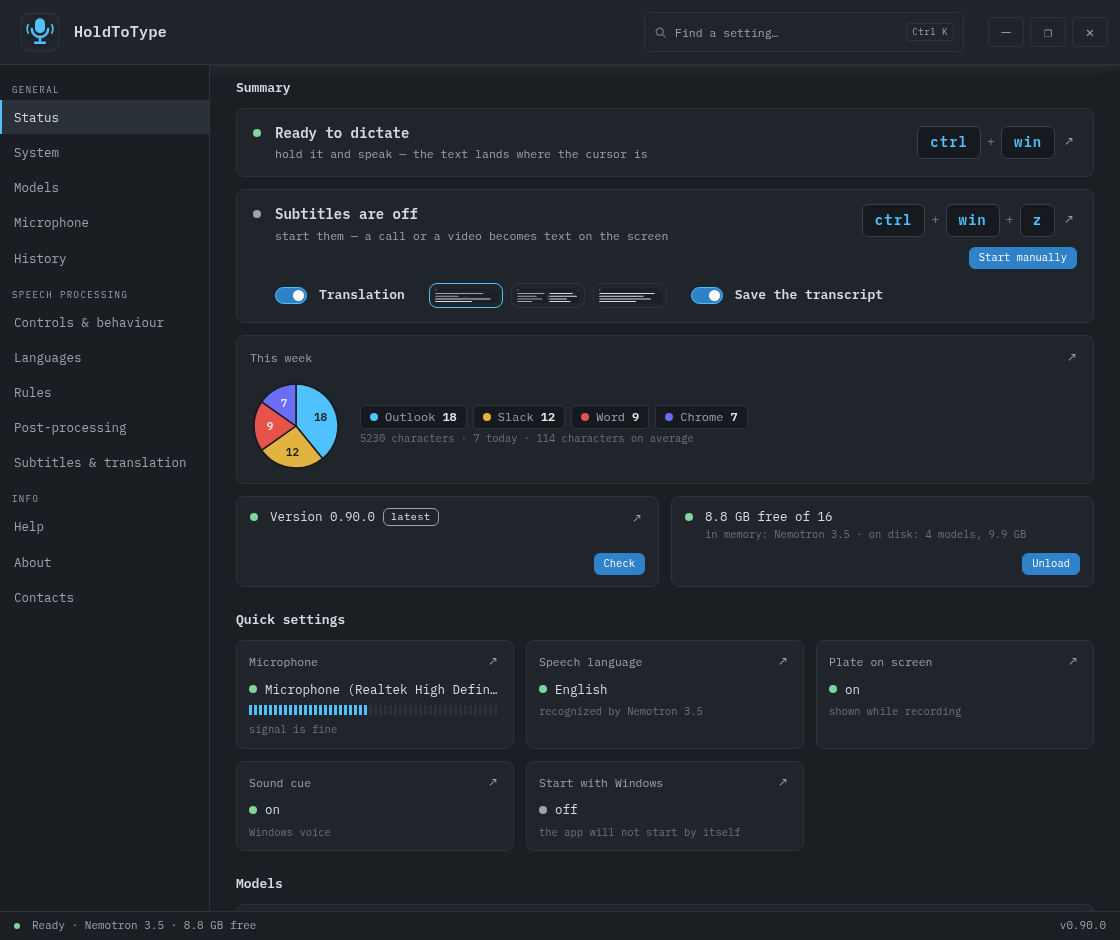
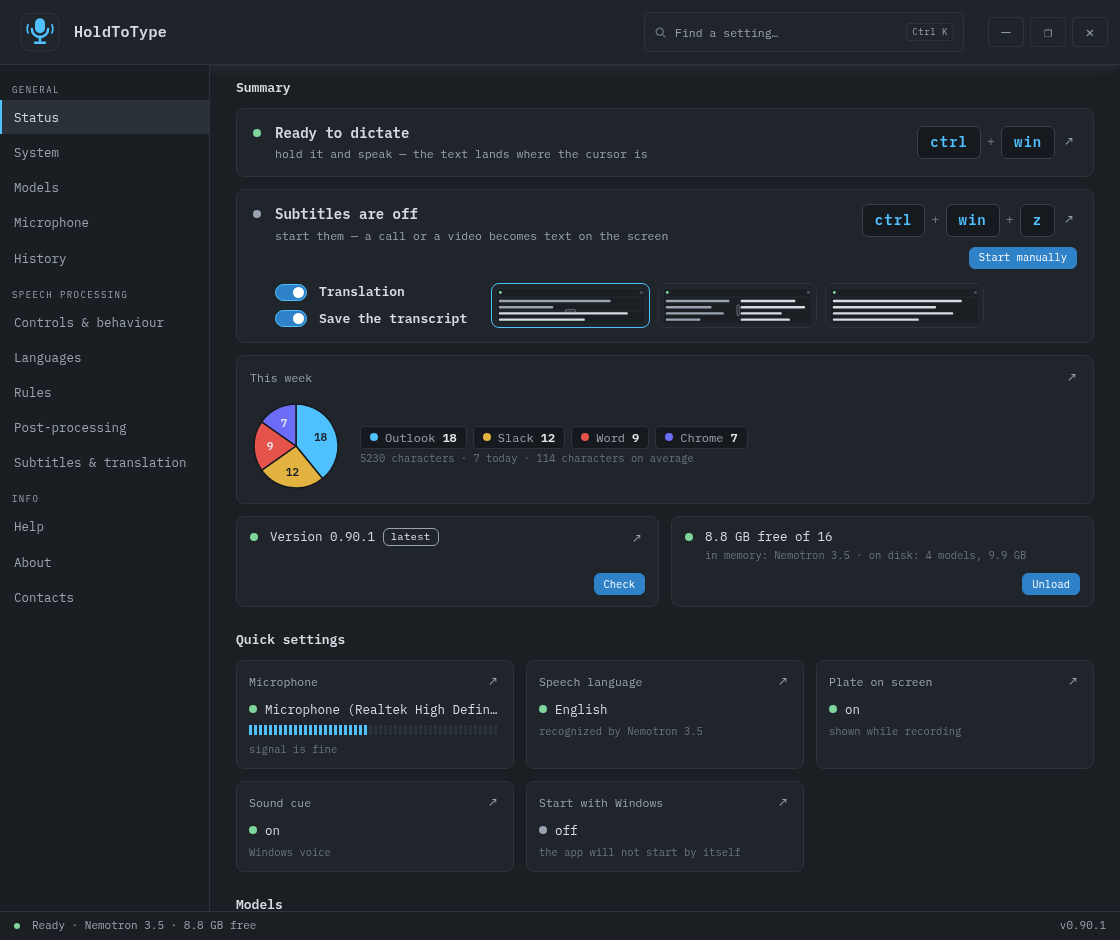
the subtitles card on status stacks its two switches on the left and lets the layout cards grow up to their height on the right, while the terminal design keeps the old row

diff --git a/test/ui.test.js b/test/ui.test.js
@@ -2030,7 +2030,33 @@ function check(name, actual, expected) {
   stTr.click(); await sleep(450);
   check("status: translation off here is off on the tab, saved, and the small cards are dimmed and disabled", [stTr.checked, trOn.checked, w.lastSaveForm.subtitles_translate_on, stLays.classList.contains("off"), stCards().every((c) => c.querySelector("input").disabled)], [false, false, false, true, true]);
   const stSave = sv("st_save_on");
-  check("status: the save switch comes after the small cards, looks like the translation switch and shows the setting", [[...d.querySelectorAll("#subs_hero .stsubsw > *")].map((e) => e.id || e.querySelector("input").id), stSave.closest("label").className, stSave.type, stSave.checked, sv("subtitles_save").checked], [["st_tr_on", "st_lays", "st_save_on"], "stsw", "checkbox", true, true]);
+  check("status: the two switches stand in a column, translation over saving, and the small cards come after the column", [[...d.querySelectorAll("#subs_hero .stsubsw > *")].map((e) => e.id || e.className), [...d.querySelectorAll("#subs_hero .stsubsw > .stswcol > *")].map((e) => e.className + ":" + e.querySelector("input").id)], [["stswcol", "st_lays"], ["stsw:st_tr_on", "stsw:st_save_on"]]);
+  check("status: the keyboard goes translation, saving, then the small cards", [...d.querySelectorAll("#subs_hero .stsubsw input")].map((i) => i.id || i.name + ":" + i.value), ["st_tr_on", "st_save_on", "st_layout:rows", "st_layout:columns", "st_layout:only"]);
+  check("status: the save switch looks like the translation switch and shows the setting", [stSave.closest("label").className, stSave.type, stSave.checked, sv("subtitles_save").checked], ["stsw", "checkbox", true, true]);
+  check("status: outside the terminal design the cards grow up to the height of the switch column and shrink when the width runs out", [
+    css.includes("#subs_hero .stswcol{display:flex;flex-direction:column;align-items:flex-start;gap:8px;flex:none}"),
+    css.includes('html:not([data-skin="terminal"]) #subs_hero>.stsubsw{flex-wrap:nowrap}'),
+    css.includes('html:not([data-skin="terminal"]) #subs_hero .stsubsw>.stlays{flex:0 1 auto;min-width:0}'),
+    css.includes('html:not([data-skin="terminal"]) #subs_hero .stlay{flex:0 1 var(--cardw,74px);min-width:0}'),
+    css.includes('html:not([data-skin="terminal"]) #subs_hero .stlay svg{width:100%}')], [true, true, true, true, true]);
+  check("status: the terminal design keeps the old order: translation, the small cards, saving", [
+    css.includes('html[data-skin="terminal"] #subs_hero .stswcol{display:contents}'),
+    css.includes('html[data-skin="terminal"] #subs_hero .stsubsw>.stlays{order:1}'),
+    css.includes('html[data-skin="terminal"] #subs_hero .stswcol>.stsw+.stsw{order:2}')], [true, true, true]);
+  const stColumn = d.querySelector("#subs_hero .stswcol");
+  const realRect = stColumn.getBoundingClientRect;
+  stLays.style.removeProperty("--cardw");
+  stColumn.getBoundingClientRect = () => ({ top: 0, left: 0, right: 200, bottom: 0, width: 200, height: 0 });
+  w.fitStateLays();
+  const hiddenWidth = stLays.style.getPropertyValue("--cardw");
+  stColumn.getBoundingClientRect = () => ({ top: 0, left: 0, right: 200, bottom: 46, width: 200, height: 46 });
+  w.fitStateLays();
+  const cardW = stLays.style.getPropertyValue("--cardw");
+  stColumn.getBoundingClientRect = realRect;
+  const cardCs = w.getComputedStyle(stCards()[0]);
+  const cssPx = (k) => parseFloat(cardCs[k]) || 0;
+  const wantW = Math.round((46 - cssPx("paddingTop") - cssPx("paddingBottom") - cssPx("borderTopWidth") - cssPx("borderBottomWidth")) * 251 / 60 + cssPx("paddingLeft") + cssPx("paddingRight") + cssPx("borderLeftWidth") + cssPx("borderRightWidth"));
+  check("status: the card width follows the height of the switch column by the proportions of the drawing and stays unset while the column is hidden", [hiddenWidth, cardW, cssPx("paddingTop")], ["", wantW + "px", 4]);
   check("status: the save switch stays awake while translation is off", [stSave.disabled, stSave.closest(".stsw").classList.contains("dimmed")], [false, false]);
   const savesSv = w.saveCalls;
   stSave.click(); await sleep(450);

diff --git a/client/i18n_extra.go b/client/i18n_extra.go
@@ -1148,7 +1148,7 @@ func init() {
 			"<p>Die obere Karte gibt es in drei Varianten. <b>Grün</b>: Alles ist in Ordnung, daneben steht eine Erinnerung an die Tasten. <b>Gelb</b>: Sie haben die App über das Symbol im Infobereich neben der Uhr ausgeschaltet, und die Tasten tun nichts, bis Sie direkt auf der Karte „Einschalten“ drücken. <b>Rot</b>: Die Einstellungen widersprechen sich. Die Erkennung auf einem anderen Rechner ist gewählt, aber keine Adresse angegeben. Auf der roten Karte führt die Schaltfläche „Servereinstellungen öffnen“ zur Serverwahl auf der Registerkarte „System“.</p>" +
 			"<p>Darunter steht, worauf man meist nur kurz schaut:</p>" +
 			"<ul>" +
-			"<li><b>Untertitel.</b> Die Karte direkt unter der obersten: ob die Untertitel aus sind, ihr Modell laden, laufen oder neu starten, mit dem Modell und wie der Text kommt, ihr Tastenkürzel, wenn eines gesetzt ist, eine Schaltfläche, die sie startet oder beendet, und ein Pfeil zur Registerkarte „Untertitel & Übersetzung“. Darunter stehen der Schalter „Übersetzung“ und drei kleine Karten der Anordnung, dieselben wie auf der Registerkarte „Untertitel & Übersetzung“: in zwei Zeilen, in zwei Spalten oder nur Übersetzung. Danach folgt der Schalter „Mitschrift speichern“, derselbe wie auf der Registerkarte „Untertitel & Übersetzung“: Solange er an ist, werden das Gehörte und die Übersetzung in Textdateien geschrieben. Er wirkt sofort, auch während die Untertitel laufen. Die Schaltfläche „Manuell starten“ startet die Untertitel direkt hier; haben sie kein eigenes Kürzel, steht an seiner Stelle die Schaltfläche „Zuweisen…“, die eines festlegt.</li>" +
+			"<li><b>Untertitel.</b> Die Karte direkt unter der obersten: ob die Untertitel aus sind, ihr Modell laden, laufen oder neu starten, mit dem Modell und wie der Text kommt, ihr Tastenkürzel, wenn eines gesetzt ist, eine Schaltfläche, die sie startet oder beendet, und ein Pfeil zur Registerkarte „Untertitel & Übersetzung“. Darunter stehen die Schalter „Übersetzung“ und „Mitschrift speichern“ und drei kleine Karten der Anordnung, dieselben wie auf der Registerkarte „Untertitel & Übersetzung“: in zwei Zeilen, in zwei Spalten oder nur Übersetzung. Solange der Schalter „Mitschrift speichern“ an ist, werden das Gehörte und die Übersetzung in Textdateien geschrieben. Er wirkt sofort, auch während die Untertitel laufen. Die Schaltfläche „Manuell starten“ startet die Untertitel direkt hier; haben sie kein eigenes Kürzel, steht an seiner Stelle die Schaltfläche „Zuweisen…“, die eines festlegt.</li>" +
 			"<li><b>Diese Woche.</b> Ein Kreisdiagramm: in welche Programme Ihre Diktate gingen und wie viele Zeichen Sie diktiert haben.</li>" +
 			"<li><b>Version.</b> Die Versionsnummer und die Schaltfläche „Prüfen“, die nachfragt, ob eine neuere Version erschienen ist. Wenn ja, sagt die App es gleich hier.</li>" +
 			"<li><b>Speicher.</b> Wie viel davon frei ist, welches Modell gerade darin sitzt und wie viel alle Modelle auf der Festplatte belegen. Die Schaltfläche „Entladen“ gibt den Speicher sofort frei, etwa vor einem anspruchsvollen Spiel. Das nächste Diktat nach dem Entladen geht nicht verloren: die Aufnahme beginnt sofort, das Modell lädt währenddessen, und der Text erscheint ein paar Sekunden später.</li>" +
@@ -1950,7 +1950,7 @@ func init() {
 			"<p>La carte du haut existe en trois versions. <b>Verte</b> : tout va bien, avec un rappel des touches à côté. <b>Jaune</b> : vous avez désactivé l'application depuis son icône dans la zone de notification, près de l'horloge, et les touches ne font rien tant que vous n'appuyez pas sur « Activer », directement sur la carte. <b>Rouge</b> : les réglages se contredisent. La reconnaissance sur un autre ordinateur est choisie, mais aucune adresse n'est indiquée. Sur la carte rouge, le bouton « Ouvrir les réglages du serveur » mène au choix du serveur dans l’onglet « Système ».</p>" +
 			"<p>En dessous se trouve ce qu'on regarde d'habitude en passant :</p>" +
 			"<ul>" +
-			"<li><b>Sous-titres.</b> La carte juste sous celle du haut : si les sous-titres sont arrêtés, chargent leur modèle, tournent ou redémarrent, avec le modèle et la façon dont arrive le texte, leur raccourci s'il y en a un, un bouton qui les démarre ou les arrête, et une flèche vers l'onglet « Sous-titres, traduction ». En dessous, l'interrupteur « Traduction » et trois petites cartes de disposition, les mêmes que dans l'onglet « Sous-titres, traduction » : sur deux lignes, sur deux colonnes ou traduction seule. Vient ensuite l'interrupteur « Enregistrer la transcription », le même que dans l'onglet « Sous-titres, traduction » : tant qu'il est activé, ce qui est entendu et sa traduction sont écrits dans des fichiers texte. Il agit tout de suite, même pendant que les sous-titres tournent. Le bouton « Démarrer manuellement » lance les sous-titres d’ici même ; s’ils n’ont pas de raccourci, le bouton « Attribuer… » est à sa place et en définit un.</li>" +
+			"<li><b>Sous-titres.</b> La carte juste sous celle du haut : si les sous-titres sont arrêtés, chargent leur modèle, tournent ou redémarrent, avec le modèle et la façon dont arrive le texte, leur raccourci s'il y en a un, un bouton qui les démarre ou les arrête, et une flèche vers l'onglet « Sous-titres, traduction ». En dessous, les interrupteurs « Traduction » et « Enregistrer la transcription » et trois petites cartes de disposition, les mêmes que dans l'onglet « Sous-titres, traduction » : sur deux lignes, sur deux colonnes ou traduction seule. Tant que l'interrupteur « Enregistrer la transcription » est activé, ce qui est entendu et sa traduction sont écrits dans des fichiers texte. Il agit tout de suite, même pendant que les sous-titres tournent. Le bouton « Démarrer manuellement » lance les sous-titres d’ici même ; s’ils n’ont pas de raccourci, le bouton « Attribuer… » est à sa place et en définit un.</li>" +
 			"<li><b>Cette semaine.</b> Un graphique circulaire : vers quels programmes sont allées vos dictées et combien de caractères vous avez dictés.</li>" +
 			"<li><b>Version.</b> Le numéro de version et le bouton « Vérifier », qui demande si une version plus récente est sortie. Si c’est le cas, l’application le dit ici même.</li>" +
 			"<li><b>Mémoire.</b> Combien il en reste de libre, quel modèle s'y trouve en ce moment et combien de place tous les modèles prennent sur le disque. Le bouton « Décharger » libère la mémoire immédiatement, par exemple avant un jeu gourmand. La dictée suivante n'est pas perdue : l'enregistrement commence aussitôt, le modèle se charge pendant ce temps, et le texte arrive quelques secondes plus tard.</li>" +
@@ -2752,7 +2752,7 @@ func init() {
 			"<p>La tarjeta de arriba puede ser de tres tipos. <b>Verde</b>: todo va bien, con un recordatorio de las teclas al lado. <b>Amarilla</b>: desactivaste la aplicación desde su icono en la bandeja, junto al reloj, y las teclas no hacen nada hasta que pulses «Activar» ahí mismo, en la tarjeta. <b>Roja</b>: los ajustes se contradicen. Está elegido el reconocimiento en otro ordenador, pero no se ha indicado ninguna dirección. En la tarjeta roja, el botón «Abrir los ajustes del servidor» lleva a la elección del servidor en la pestaña «Sistema».</p>" +
 			"<p>Debajo está lo que normalmente se mira de pasada:</p>" +
 			"<ul>" +
-			"<li><b>Subtítulos.</b> La tarjeta justo debajo de la primera: si los subtítulos están apagados, cargando su modelo, en marcha o reiniciándose, con el modelo y cómo llega el texto, su atajo si hay uno, un botón que los inicia o los detiene y una flecha a la pestaña «Subtítulos y traducción». Debajo están el interruptor «Traducción» y tres pequeñas tarjetas de disposición, las mismas que en la pestaña «Subtítulos y traducción»: en dos filas, en dos columnas o solo traducción. Después viene el interruptor «Guardar la transcripción», el mismo que en la pestaña «Subtítulos y traducción»: mientras está activado, lo que se oye y su traducción se escriben en archivos de texto. Actúa al momento, incluso con los subtítulos en marcha. El botón «Iniciar manualmente» inicia los subtítulos desde aquí mismo; si no tienen atajo propio, en su lugar está el botón «Asignar…», que lo asigna.</li>" +
+			"<li><b>Subtítulos.</b> La tarjeta justo debajo de la primera: si los subtítulos están apagados, cargando su modelo, en marcha o reiniciándose, con el modelo y cómo llega el texto, su atajo si hay uno, un botón que los inicia o los detiene y una flecha a la pestaña «Subtítulos y traducción». Debajo están los interruptores «Traducción» y «Guardar la transcripción» y tres pequeñas tarjetas de disposición, los mismos que en la pestaña «Subtítulos y traducción»: en dos filas, en dos columnas o solo traducción. Mientras el interruptor «Guardar la transcripción» está activado, lo que se oye y su traducción se escriben en archivos de texto. Actúa al momento, incluso con los subtítulos en marcha. El botón «Iniciar manualmente» inicia los subtítulos desde aquí mismo; si no tienen atajo propio, en su lugar está el botón «Asignar…», que lo asigna.</li>" +
 			"<li><b>Esta semana.</b> Un gráfico circular: a qué programas fueron tus dictados y cuántos caracteres dictaste.</li>" +
 			"<li><b>Versión.</b> El número de versión y el botón «Comprobar», que pregunta si ha salido una versión más nueva. Si es así, la app lo dice aquí mismo.</li>" +
 			"<li><b>Memoria.</b> Cuánta queda libre, qué modelo está cargado en ella ahora y cuánto ocupan todos los modelos en el disco. El botón «Liberar» vacía la memoria al momento, por ejemplo antes de un juego exigente. El siguiente dictado no se pierde: la grabación empieza al momento, el modelo se carga mientras tanto y el texto aparece unos segundos más tarde.</li>" +
@@ -3554,7 +3554,7 @@ func init() {
 			"<p>Il riquadro in alto può essere di tre tipi. <b>Verde</b>: va tutto bene, e accanto c'è un promemoria dei tasti. <b>Giallo</b>: hai spento l'app dalla sua icona nell'area di notifica, vicino all'orologio, e i tasti non fanno nulla finché non premi «Accendi» lì stesso, nel riquadro. <b>Rosso</b>: le impostazioni si contraddicono. È scelto il riconoscimento su un altro computer, ma l'indirizzo non è indicato. Sulla scheda rossa il pulsante «Apri le impostazioni del server» porta alla scelta del server nella scheda «Sistema».</p>" +
 			"<p>Più sotto c'è quello che di solito si guarda di sfuggita:</p>" +
 			"<ul>" +
-			"<li><b>Sottotitoli.</b> Il riquadro subito sotto quello in alto: se i sottotitoli sono spenti, stanno caricando il modello, sono attivi o si stanno riavviando, con il modello e come arriva il testo, la loro scorciatoia se è impostata, un pulsante che li avvia o li ferma e una freccia verso la scheda «Sottotitoli e traduzione». Sotto ci sono l'interruttore «Traduzione» e tre piccole schede di disposizione, le stesse della scheda «Sottotitoli e traduzione»: su due righe, su due colonne o solo traduzione. Dopo c'è l'interruttore «Salva la trascrizione», lo stesso della scheda «Sottotitoli e traduzione»: finché è attivo, ciò che si sente e la sua traduzione vengono scritti in file di testo. Ha effetto subito, anche mentre i sottotitoli sono attivi. Il pulsante «Avvia manualmente» avvia i sottotitoli da qui; se non hanno una scorciatoia propria, al suo posto c’è il pulsante «Assegna…», che ne assegna una.</li>" +
+			"<li><b>Sottotitoli.</b> Il riquadro subito sotto quello in alto: se i sottotitoli sono spenti, stanno caricando il modello, sono attivi o si stanno riavviando, con il modello e come arriva il testo, la loro scorciatoia se è impostata, un pulsante che li avvia o li ferma e una freccia verso la scheda «Sottotitoli e traduzione». Sotto ci sono gli interruttori «Traduzione» e «Salva la trascrizione» e tre piccole schede di disposizione, gli stessi della scheda «Sottotitoli e traduzione»: su due righe, su due colonne o solo traduzione. Finché l'interruttore «Salva la trascrizione» è attivo, ciò che si sente e la sua traduzione vengono scritti in file di testo. Ha effetto subito, anche mentre i sottotitoli sono attivi. Il pulsante «Avvia manualmente» avvia i sottotitoli da qui; se non hanno una scorciatoia propria, al suo posto c’è il pulsante «Assegna…», che ne assegna una.</li>" +
 			"<li><b>Questa settimana.</b> Un grafico a torta: in quali programmi sono finite le tue dettature e quanti caratteri hai dettato.</li>" +
 			"<li><b>Versione.</b> Il numero di versione e il pulsante «Controlla», che chiede se è uscita una versione più recente. Se sì, l’app lo dice proprio qui.</li>" +
 			"<li><b>Memoria.</b> Quanta ne resta libera, quale modello c'è dentro adesso e quanto pesano tutti i modelli su disco. Il pulsante «Libera» svuota la memoria subito, per esempio prima di un gioco pesante. La dettatura successiva non va persa: la registrazione parte subito, il modello si carica nel frattempo e il testo arriva qualche secondo dopo.</li>" +
@@ -4356,7 +4356,7 @@ func init() {
 			"<p>Górna karta bywa trzech rodzajów. <b>Zielona</b>: wszystko w porządku, obok przypomnienie o klawiszach. <b>Żółta</b>: aplikację wyłączono przez ikonę w zasobniku obok zegara i klawisze nie działają, dopóki nie naciśniesz „Włącz” bezpośrednio na tej karcie. <b>Czerwona</b>: ustawienia sobie przeczą. Wybrano rozpoznawanie na innym komputerze, ale nie podano adresu. Na czerwonej karcie przycisk „Otwórz ustawienia serwera” prowadzi do wyboru serwera na karcie „System”.</p>" +
 			"<p>Niżej jest to, na co zwykle tylko się zerka:</p>" +
 			"<ul>" +
-			"<li><b>Napisy.</b> Karta tuż pod górną: czy napisy są wyłączone, wczytują model, działają czy uruchamiają się ponownie, z modelem i tym, jak przychodzi tekst, ich skrót, jeśli jest ustawiony, przycisk, który je włącza lub wyłącza, i strzałka do zakładki „Napisy i tłumaczenie”. Pod spodem są przełącznik „Tłumaczenie” i trzy małe karty układu, te same co w zakładce „Napisy i tłumaczenie”: w dwóch wierszach, w dwóch kolumnach albo tylko tłumaczenie. Dalej jest przełącznik „Zapisuj transkrypcję”, ten sam co w zakładce „Napisy i tłumaczenie”: dopóki jest włączony, to, co słychać, i tłumaczenie trafiają do plików tekstowych. Działa od razu, także w trakcie działania napisów. Przycisk „Włącz ręcznie” uruchamia napisy prosto stąd; jeśli nie mają własnego skrótu, na jego miejscu jest przycisk „Przypisz…”, który go ustawia.</li>" +
+			"<li><b>Napisy.</b> Karta tuż pod górną: czy napisy są wyłączone, wczytują model, działają czy uruchamiają się ponownie, z modelem i tym, jak przychodzi tekst, ich skrót, jeśli jest ustawiony, przycisk, który je włącza lub wyłącza, i strzałka do zakładki „Napisy i tłumaczenie”. Pod spodem są przełączniki „Tłumaczenie” i „Zapisuj transkrypcję” oraz trzy małe karty układu, te same co w zakładce „Napisy i tłumaczenie”: w dwóch wierszach, w dwóch kolumnach albo tylko tłumaczenie. Dopóki przełącznik „Zapisuj transkrypcję” jest włączony, to, co słychać, i tłumaczenie trafiają do plików tekstowych. Działa od razu, także w trakcie działania napisów. Przycisk „Włącz ręcznie” uruchamia napisy prosto stąd; jeśli nie mają własnego skrótu, na jego miejscu jest przycisk „Przypisz…”, który go ustawia.</li>" +
 			"<li><b>W tym tygodniu.</b> Wykres kołowy: do jakich programów trafiały twoje dyktowania i ile znaków podyktowano.</li>" +
 			"<li><b>Wersja.</b> Numer wersji i przycisk „Sprawdź”, który sprawdza, czy wyszła nowsza wersja. Jeśli tak, aplikacja powie o tym tutaj.</li>" +
 			"<li><b>Pamięć.</b> Ile jej jest wolnej, który model jest w niej teraz i ile wszystkie modele zajmują na dysku. Przycisk „Wyładuj” zwalnia pamięć od razu, na przykład przed wymagającą grą. Następne dyktowanie nie przepada: nagrywanie zaczyna się od razu, model w tym czasie się wczytuje, a tekst pojawia się kilka sekund później.</li>" +
@@ -5278,7 +5278,7 @@ func init() {
 			"<p>Верхня картка буває трьох видів. <b>Зелена</b>: усе гаразд, поруч нагадування про клавіші. <b>Жовта</b>: ви вимкнули застосунок через значок біля годинника, і клавіші не працюють, доки ви не натиснете «Увімкнути» тут же, на картці. <b>Червона</b>: налаштування суперечать одне одному. Вибрано розпізнавання на іншому комп'ютері, а адресу не вказано. На червоній картці кнопка «Відкрити налаштування сервера» веде до вибору сервера на вкладці «Система».</p>" +
 			"<p>Нижче те, на що зазвичай лише кидають оком:</p>" +
 			"<ul>" +
-			"<li><b>Субтитри.</b> Картка одразу під верхньою: чи вимкнені субтитри, завантажують модель, ідуть чи перезапускаються, з моделлю і тим, як приходить текст, їхнє сполучення клавіш, якщо його задано, кнопка, яка їх запускає або зупиняє, і стрілка на вкладку «Субтитри й переклад». Під нею — перемикач «Переклад» і три маленькі картки розташування, ті самі, що на вкладці «Субтитри й переклад»: у два рядки, у дві колонки або лише переклад. Далі — перемикач «Зберігати розшифровку», той самий, що на вкладці «Субтитри й переклад»: поки він увімкнений, почуте й переклад записуються в текстові файли. Він діє одразу, навіть коли субтитри вже йдуть. Кнопка «Запустити вручну» запускає субтитри просто звідси; якщо власного сполучення в них немає, на його місці кнопка «Призначити…», яка його задає.</li>" +
+			"<li><b>Субтитри.</b> Картка одразу під верхньою: чи вимкнені субтитри, завантажують модель, ідуть чи перезапускаються, з моделлю і тим, як приходить текст, їхнє сполучення клавіш, якщо його задано, кнопка, яка їх запускає або зупиняє, і стрілка на вкладку «Субтитри й переклад». Під нею — перемикачі «Переклад» і «Зберігати розшифровку» та три маленькі картки розташування, ті самі, що на вкладці «Субтитри й переклад»: у два рядки, у дві колонки або лише переклад. Поки перемикач «Зберігати розшифровку» увімкнений, почуте й переклад записуються в текстові файли. Він діє одразу, навіть коли субтитри вже йдуть. Кнопка «Запустити вручну» запускає субтитри просто звідси; якщо власного сполучення в них немає, на його місці кнопка «Призначити…», яка його задає.</li>" +
 			"<li><b>Використання за тиждень.</b> Кругова діаграма: у які програми йшли ваші диктування і скільки знаків ви наговорили.</li>" +
 			"<li><b>Версія.</b> Номер збірки і кнопка «Перевірити»: вона питає, чи не вийшла новіша версія. Якщо вийшла, застосунок скаже про це тут же.</li>" +
 			"<li><b>Пам'ять.</b> Скільки її вільно, яка модель зараз у ній сидить і скільки всі моделі важать на диску. Кнопка «Вивантажити» звільняє пам'ять негайно, наприклад перед важкою грою. Наступне диктування після цього не губиться: запис починається одразу, модель тим часом завантажується, і текст з'являється на кілька секунд пізніше.</li>" +

diff --git a/client/settings.go b/client/settings.go
@@ -2076,6 +2076,14 @@ input.srcpick:disabled,input.srvpick:disabled{opacity:.4;cursor:default}
 #subs_hero .stlay input,#skin_cards .stlay input{position:absolute;top:0;left:0;width:1px;height:1px;margin:0;opacity:0;pointer-events:none}
 #subs_hero .stlay.on,#skin_cards .stlay.on{border-color:var(--hi);box-shadow:var(--higlow)}
 #subs_hero .stlay:has(input:focus-visible),#skin_cards .stlay:has(input:focus-visible){outline:1px solid var(--green);outline-offset:2px}
+#subs_hero .stswcol{display:flex;flex-direction:column;align-items:flex-start;gap:8px;flex:none}
+html:not([data-skin="terminal"]) #subs_hero>.stsubsw{flex-wrap:nowrap}
+html:not([data-skin="terminal"]) #subs_hero .stsubsw>.stlays{flex:0 1 auto;min-width:0}
+html:not([data-skin="terminal"]) #subs_hero .stlay{flex:0 1 var(--cardw,74px);min-width:0}
+html:not([data-skin="terminal"]) #subs_hero .stlay svg{width:100%}
+html[data-skin="terminal"] #subs_hero .stswcol{display:contents}
+html[data-skin="terminal"] #subs_hero .stsubsw>.stlays{order:1}
+html[data-skin="terminal"] #subs_hero .stswcol>.stsw+.stsw{order:2}
 .dsrow{row-gap:9px}
 .dsrow>label{flex:1 1 100%}
 #skin_cards{flex:1 1 100%;min-width:0;max-width:calc(var(--dcount) * 84px + (var(--dcount) - 1) * 6px);display:grid;grid-template-columns:repeat(auto-fit,minmax(var(--dmin,68px),1fr));gap:6px;font-size:11px}
@@ -2387,7 +2395,7 @@ button.iconbtn.danger:hover{color:var(--bad);filter:var(--badfilter)}
    </div>
    <button type="button" class="mini pri" id="subs_hero_go" title="{{S_SUBS_START}}">{{S_SUBS_HERO_START}}</button>
   </div>
-  <div class="stsubsw"><label class="stsw"><input type="checkbox" id="st_tr_on"><span>{{S_SUBS_TR}}</span></label><div class="stlays" id="st_lays" role="radiogroup" aria-label="{{S_SUBS_LAYOUT}}"><label class="stlay" data-v="rows" title="{{S_SUBS_LAYOUT_ROWS}}"><input type="radio" name="st_layout" value="rows" aria-label="{{S_SUBS_LAYOUT_ROWS}}"><svg class="laythumb" width="251" height="60" viewBox="0 0 251 60" aria-hidden="true"><rect x="0.5" y="0.50" width="250" height="59.00" rx="2.33" style="fill:var(--bg);stroke:var(--line)"/><circle cx="7.30" cy="7.59" r="2.4" style="fill:var(--ok)"/><path d="M242.67 5.39L247.07 9.79M247.07 5.39L242.67 9.79" style="stroke:var(--dim);stroke-width:1;fill:none"/><rect x="2.92" y="15.00" width="245.16" height="1.00" style="fill:var(--line)"/><rect x="4.67" y="19.87" width="188.50" height="4.00" rx="2.00" style="fill:var(--dim)"/><rect x="4.67" y="30.35" width="91.83" height="4.00" rx="2.00" style="fill:var(--dim)"/><rect x="4.67" y="40.83" width="217.49" height="4.00" rx="2.00" style="fill:var(--green)"/><rect x="4.67" y="51.30" width="145.00" height="4.00" rx="2.00" style="fill:var(--green)"/><rect x="2.92" y="38.00" width="245.16" height="1.00" style="fill:var(--line)"/><rect x="116.50" y="36.50" width="18" height="4" rx="2" style="fill:var(--bg);stroke:var(--dim);stroke-width:1"/></svg></label><label class="stlay" data-v="columns" title="{{S_SUBS_LAYOUT_COLS}}"><input type="radio" name="st_layout" value="columns" aria-label="{{S_SUBS_LAYOUT_COLS}}"><svg class="laythumb" width="251" height="60" viewBox="0 0 251 60" aria-hidden="true"><rect x="0.5" y="0.50" width="250" height="59.00" rx="2.33" style="fill:var(--bg);stroke:var(--line)"/><circle cx="7.30" cy="7.59" r="2.4" style="fill:var(--ok)"/><path d="M242.67 5.39L247.07 9.79M247.07 5.39L242.67 9.79" style="stroke:var(--dim);stroke-width:1;fill:none"/><rect x="2.92" y="15.00" width="245.16" height="1.00" style="fill:var(--line)"/><rect x="4.67" y="19.87" width="107.33" height="4.00" rx="2.00" style="fill:var(--dim)"/><rect x="4.67" y="30.35" width="77.00" height="4.00" rx="2.00" style="fill:var(--dim)"/><rect x="4.67" y="40.83" width="97.99" height="4.00" rx="2.00" style="fill:var(--dim)"/><rect x="4.67" y="51.30" width="58.33" height="4.00" rx="2.00" style="fill:var(--dim)"/><rect x="130.67" y="19.87" width="92.53" height="4.00" rx="2.00" style="fill:var(--green)"/><rect x="130.67" y="30.35" width="108.72" height="4.00" rx="2.00" style="fill:var(--green)"/><rect x="130.67" y="40.83" width="69.40" height="4.00" rx="2.00" style="fill:var(--green)"/><rect x="130.67" y="51.30" width="83.28" height="4.00" rx="2.00" style="fill:var(--green)"/><rect x="126.00" y="15.00" width="1.00" height="42.08" style="fill:var(--line)"/><rect x="124.50" y="28.59" width="4" height="18" rx="2" style="fill:var(--bg);stroke:var(--dim);stroke-width:1"/></svg></label><label class="stlay" data-v="only" title="{{S_SUBS_LAYOUT_ONLY}}"><input type="radio" name="st_layout" value="only" aria-label="{{S_SUBS_LAYOUT_ONLY}}"><svg class="laythumb" width="251" height="60" viewBox="0 0 251 60" aria-hidden="true"><rect x="0.5" y="0.50" width="250" height="59.00" rx="2.33" style="fill:var(--bg);stroke:var(--line)"/><circle cx="7.30" cy="7.59" r="2.4" style="fill:var(--ok)"/><path d="M242.67 5.39L247.07 9.79M247.07 5.39L242.67 9.79" style="stroke:var(--dim);stroke-width:1;fill:none"/><rect x="2.92" y="15.00" width="245.16" height="1.00" style="fill:var(--line)"/><rect x="4.67" y="19.87" width="217.49" height="4.00" rx="2.00" style="fill:var(--green)"/><rect x="4.67" y="30.35" width="174.00" height="4.00" rx="2.00" style="fill:var(--green)"/><rect x="4.67" y="40.83" width="203.00" height="4.00" rx="2.00" style="fill:var(--green)"/><rect x="4.67" y="51.30" width="145.00" height="4.00" rx="2.00" style="fill:var(--green)"/></svg></label></div><label class="stsw"><input type="checkbox" id="st_save_on"><span>{{S_SUBS_SAVE}}</span></label></div>
+  <div class="stsubsw"><div class="stswcol"><label class="stsw"><input type="checkbox" id="st_tr_on"><span>{{S_SUBS_TR}}</span></label><label class="stsw"><input type="checkbox" id="st_save_on"><span>{{S_SUBS_SAVE}}</span></label></div><div class="stlays" id="st_lays" role="radiogroup" aria-label="{{S_SUBS_LAYOUT}}"><label class="stlay" data-v="rows" title="{{S_SUBS_LAYOUT_ROWS}}"><input type="radio" name="st_layout" value="rows" aria-label="{{S_SUBS_LAYOUT_ROWS}}"><svg class="laythumb" width="251" height="60" viewBox="0 0 251 60" aria-hidden="true"><rect x="0.5" y="0.50" width="250" height="59.00" rx="2.33" style="fill:var(--bg);stroke:var(--line)"/><circle cx="7.30" cy="7.59" r="2.4" style="fill:var(--ok)"/><path d="M242.67 5.39L247.07 9.79M247.07 5.39L242.67 9.79" style="stroke:var(--dim);stroke-width:1;fill:none"/><rect x="2.92" y="15.00" width="245.16" height="1.00" style="fill:var(--line)"/><rect x="4.67" y="19.87" width="188.50" height="4.00" rx="2.00" style="fill:var(--dim)"/><rect x="4.67" y="30.35" width="91.83" height="4.00" rx="2.00" style="fill:var(--dim)"/><rect x="4.67" y="40.83" width="217.49" height="4.00" rx="2.00" style="fill:var(--green)"/><rect x="4.67" y="51.30" width="145.00" height="4.00" rx="2.00" style="fill:var(--green)"/><rect x="2.92" y="38.00" width="245.16" height="1.00" style="fill:var(--line)"/><rect x="116.50" y="36.50" width="18" height="4" rx="2" style="fill:var(--bg);stroke:var(--dim);stroke-width:1"/></svg></label><label class="stlay" data-v="columns" title="{{S_SUBS_LAYOUT_COLS}}"><input type="radio" name="st_layout" value="columns" aria-label="{{S_SUBS_LAYOUT_COLS}}"><svg class="laythumb" width="251" height="60" viewBox="0 0 251 60" aria-hidden="true"><rect x="0.5" y="0.50" width="250" height="59.00" rx="2.33" style="fill:var(--bg);stroke:var(--line)"/><circle cx="7.30" cy="7.59" r="2.4" style="fill:var(--ok)"/><path d="M242.67 5.39L247.07 9.79M247.07 5.39L242.67 9.79" style="stroke:var(--dim);stroke-width:1;fill:none"/><rect x="2.92" y="15.00" width="245.16" height="1.00" style="fill:var(--line)"/><rect x="4.67" y="19.87" width="107.33" height="4.00" rx="2.00" style="fill:var(--dim)"/><rect x="4.67" y="30.35" width="77.00" height="4.00" rx="2.00" style="fill:var(--dim)"/><rect x="4.67" y="40.83" width="97.99" height="4.00" rx="2.00" style="fill:var(--dim)"/><rect x="4.67" y="51.30" width="58.33" height="4.00" rx="2.00" style="fill:var(--dim)"/><rect x="130.67" y="19.87" width="92.53" height="4.00" rx="2.00" style="fill:var(--green)"/><rect x="130.67" y="30.35" width="108.72" height="4.00" rx="2.00" style="fill:var(--green)"/><rect x="130.67" y="40.83" width="69.40" height="4.00" rx="2.00" style="fill:var(--green)"/><rect x="130.67" y="51.30" width="83.28" height="4.00" rx="2.00" style="fill:var(--green)"/><rect x="126.00" y="15.00" width="1.00" height="42.08" style="fill:var(--line)"/><rect x="124.50" y="28.59" width="4" height="18" rx="2" style="fill:var(--bg);stroke:var(--dim);stroke-width:1"/></svg></label><label class="stlay" data-v="only" title="{{S_SUBS_LAYOUT_ONLY}}"><input type="radio" name="st_layout" value="only" aria-label="{{S_SUBS_LAYOUT_ONLY}}"><svg class="laythumb" width="251" height="60" viewBox="0 0 251 60" aria-hidden="true"><rect x="0.5" y="0.50" width="250" height="59.00" rx="2.33" style="fill:var(--bg);stroke:var(--line)"/><circle cx="7.30" cy="7.59" r="2.4" style="fill:var(--ok)"/><path d="M242.67 5.39L247.07 9.79M247.07 5.39L242.67 9.79" style="stroke:var(--dim);stroke-width:1;fill:none"/><rect x="2.92" y="15.00" width="245.16" height="1.00" style="fill:var(--line)"/><rect x="4.67" y="19.87" width="217.49" height="4.00" rx="2.00" style="fill:var(--green)"/><rect x="4.67" y="30.35" width="174.00" height="4.00" rx="2.00" style="fill:var(--green)"/><rect x="4.67" y="40.83" width="203.00" height="4.00" rx="2.00" style="fill:var(--green)"/><rect x="4.67" y="51.30" width="145.00" height="4.00" rx="2.00" style="fill:var(--green)"/></svg></label></div></div>
  </div>
  <div class="stalerts" id="state_alerts"></div>
  <div class="stplate stusage" id="state_usage"></div>
@@ -4755,6 +4763,19 @@ function pickLayout(v){
   }
   syncLayout();
 }
+function fitStateLays(){
+  const col = document.querySelector("#subs_hero .stswcol"), box = subsEl("st_lays");
+  const card = box && box.querySelector(".stlay"), pic = card && card.querySelector("svg");
+  if(!col || !card || !pic) return;
+  const h = col.getBoundingClientRect().height;
+  if(h <= 0) return;
+  const cs = getComputedStyle(card);
+  const px = k=>parseFloat(cs[k]) || 0;
+  const vb = pic.viewBox.baseVal;
+  const tall = h - px("paddingTop") - px("paddingBottom") - px("borderTopWidth") - px("borderBottomWidth");
+  const wide = px("paddingLeft") + px("paddingRight") + px("borderLeftWidth") + px("borderRightWidth");
+  box.style.setProperty("--cardw", Math.round(tall * vb.width / vb.height + wide) + "px");
+}
 function syncStateSwitches(){
   const sv = subsEl("st_save_on"), rSv = subsEl("subtitles_save");
   if(sv && rSv) sv.checked = rSv.checked;
@@ -4786,6 +4807,9 @@ function initSubsExtras(){
   const onlyBox = subsEl("subtitles_translation_only");
   if(onlyBox) onlyBox.addEventListener("change", syncLayout);
   syncLayout();
+  const stCol = document.querySelector("#subs_hero .stswcol");
+  if(stCol && window.ResizeObserver) new ResizeObserver(fitStateLays).observe(stCol);
+  fitStateLays();
   [["st_tr_on", "subtitles_translate_on"], ["st_save_on", "subtitles_save"]].forEach(([mine, real])=>{
     const a = subsEl(mine), b = subsEl(real);
     if(!a || !b) return;

diff --git a/client/i18n.go b/client/i18n.go
@@ -1178,7 +1178,7 @@ var settingsStrings = map[string]map[string]string{
 			"<p>Верхняя карточка бывает трёх видов. <b>Зелёная</b> — всё в порядке, рядом напоминание про клавиши. <b>Жёлтая</b> — вы выключили приложение через значок у часов, клавиши не работают, пока не нажмёте «Включить» тут же на карточке. <b>Красная</b> — настройки противоречат друг другу: выбрано распознавание на другом компьютере, а адрес не указан. На красной карточке кнопка «Открыть настройки сервера» ведёт к выбору сервера на вкладке «Система».</p>" +
 			"<p>Ниже — то, на что обычно смотрят мельком:</p>" +
 			"<ul>" +
-			"<li><b>Субтитры.</b> Карточка сразу под верхней: выключены ли субтитры, загружают модель, идут или перезапускаются, с моделью и тем, как приходит текст, их сочетание клавиш, если оно задано, кнопка, которая их запускает или останавливает, и стрелка на вкладку «Субтитры и перевод». Под строкой состояния — переключатель «Перевод» и три маленькие карточки расположения, те же, что на вкладке «Субтитры и перевод»: в две строки, в две колонки или только перевод. За ними — переключатель «Сохранять расшифровку», тот же, что на вкладке «Субтитры и перевод»: пока он включён, услышанное и перевод записываются в текстовые файлы. Он действует сразу, даже когда субтитры уже идут. Кнопка «Запустить вручную» запускает субтитры прямо отсюда; если своего сочетания у них нет, на его месте кнопка «Назначить…», которая его задаёт.</li>" +
+			"<li><b>Субтитры.</b> Карточка сразу под верхней: выключены ли субтитры, загружают модель, идут или перезапускаются, с моделью и тем, как приходит текст, их сочетание клавиш, если оно задано, кнопка, которая их запускает или останавливает, и стрелка на вкладку «Субтитры и перевод». Под строкой состояния — переключатели «Перевод» и «Сохранять расшифровку», а также три маленькие карточки расположения, те же, что на вкладке «Субтитры и перевод»: в две строки, в две колонки или только перевод. Пока переключатель «Сохранять расшифровку» включён, услышанное и перевод записываются в текстовые файлы. Он действует сразу, даже когда субтитры уже идут. Кнопка «Запустить вручную» запускает субтитры прямо отсюда; если своего сочетания у них нет, на его месте кнопка «Назначить…», которая его задаёт.</li>" +
 			"<li><b>Использование за неделю.</b> Круговая диаграмма: в какие программы уходили ваши диктовки и сколько знаков вы наговорили.</li>" +
 			"<li><b>Версия.</b> Номер сборки и кнопка «Проверить»: она спрашивает, не вышла ли версия новее. Если вышла, приложение скажет об этом здесь же.</li>" +
 			"<li><b>Память.</b> Сколько её свободно, какая модель сейчас в ней сидит и сколько все модели весят на диске. Кнопка «Выгрузить» освобождает память немедленно — например, перед тяжёлой игрой. Следующая диктовка после выгрузки не теряется: запись начинается сразу, модель тем временем загружается, и текст появляется на несколько секунд позже.</li>" +
@@ -2110,7 +2110,7 @@ var settingsStrings = map[string]map[string]string{
 			"<p>The top card comes in three kinds. <b>Green</b>: all is well, with a reminder of the keys next to it. <b>Yellow</b>: you switched the app off from the tray icon next to the clock, and the keys do nothing until you press “Switch on” right there on the card. <b>Red</b>: the settings contradict each other. Recognition on another computer is chosen, but no address is given. On the red card the “Open the server settings” button leads to the server choice on the “System” tab.</p>" +
 			"<p>Below it is what you will usually just glance at:</p>" +
 			"<ul>" +
-			"<li><b>Subtitles.</b> The card right under the top one: whether subtitles are off, loading their model, running or restarting, with the model and how the text arrives, their shortcut when one is set, a button that starts or stops them, and an arrow to the “Subtitles & translation” tab. Under it are the “Translation” switch and three small layout cards, the same as on the “Subtitles & translation” tab: in two rows, in two columns or translation only. After them comes the “Save the transcript” switch, the same as on the “Subtitles & translation” tab: while it is on, what is heard and its translation are written to text files. It takes effect at once, even while subtitles are running. The “Start manually” button starts subtitles right here; when they have no shortcut of their own, an “Assign…” button stands in its place and sets one.</li>" +
+			"<li><b>Subtitles.</b> The card right under the top one: whether subtitles are off, loading their model, running or restarting, with the model and how the text arrives, their shortcut when one is set, a button that starts or stops them, and an arrow to the “Subtitles & translation” tab. Under it are the “Translation” and “Save the transcript” switches and three small layout cards, the same as on the “Subtitles & translation” tab: in two rows, in two columns or translation only. While the “Save the transcript” switch is on, what is heard and its translation are written to text files. It takes effect at once, even while subtitles are running. The “Start manually” button starts subtitles right here; when they have no shortcut of their own, an “Assign…” button stands in its place and sets one.</li>" +
 			"<li><b>This week.</b> A pie chart: which programs your dictations went to and how many characters you dictated.</li>" +
 			"<li><b>Version.</b> The build number and the “Check” button, which asks whether a newer version is out. If one is, the app says so right here.</li>" +
 			"<li><b>Memory.</b> How much of it is free, which model is sitting in it now, and how much all the models take up on disk. The “Unload” button frees the memory at once, for example before a heavy game. The next dictation after an unload is not lost: the recording starts at once, the model loads meanwhile, and the text appears a few seconds later.</li>" +
